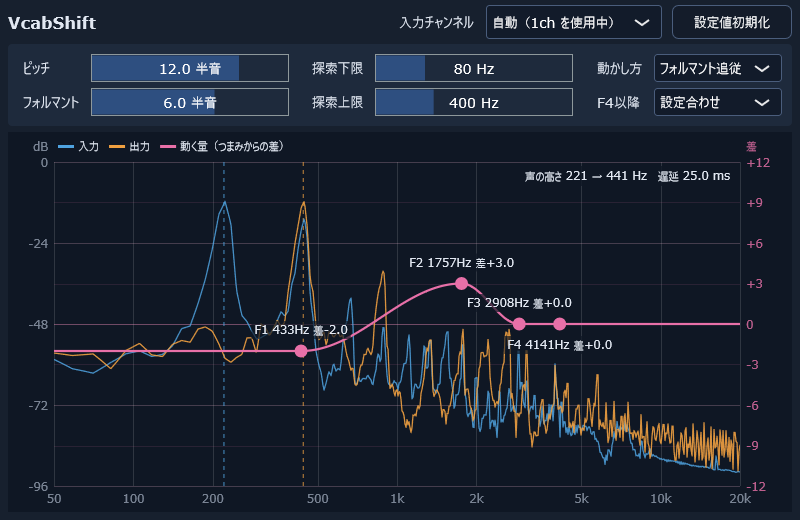
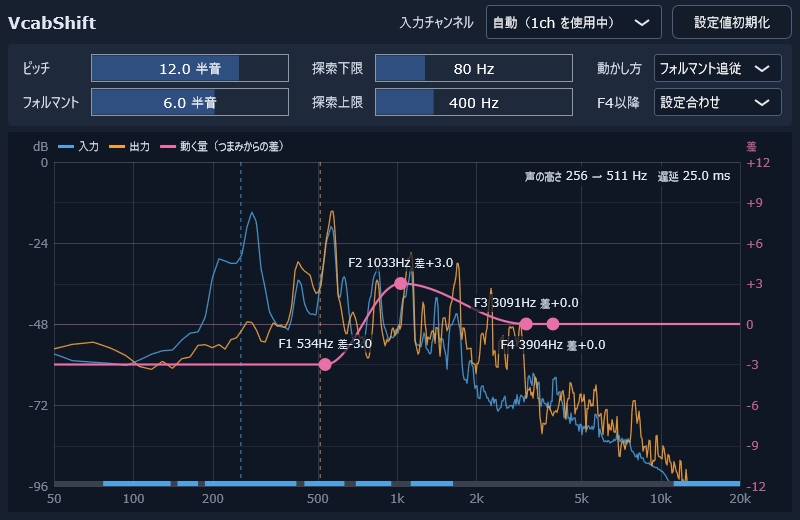
1.0.2

Changed region(s): [[0.0625, 0.3692, 0.9375, 0.9538], [0.75, 0.3077, 0.7812, 0.3385]]

diff --git a/Source/Core/Dsp/PitchDetector.cpp b/Source/Core/Dsp/PitchDetector.cpp
@@ -12,7 +12,9 @@ namespace
 constexpr float kSilentRms = 0.001f;   // -60dBFS より小さい窓は無声とする
 constexpr float kThreshold = 0.15f;    // この値を最初に下回る谷を選ぶ
 constexpr float kVoicedLimit = 0.25f;  // 選んだ谷がこれより深ければ有声
+constexpr float kUnvoicedLimit = 0.35f; // 有声が続いていて高さも近いときは、選んだ谷がこれより浅くなるまで無声にしない
 constexpr float kJumpSemitones = 5.0f; // 前のフレームからこれ以上跳んだら、間違いを疑う
+constexpr int kMaxCorrections = 4;     // 飛び止めで続けて直せるフレームの数（これを超えたら本当に変わったとみなす）
 } // namespace
 
 void PitchDetector::prepare (float sampleRate, float lowestMin)
@@ -99,15 +101,25 @@ PitchResult PitchDetector::analyze (const float* x)
     }
 
     PitchResult r;
-    if (best >= 0 && cmnd[static_cast<size_t> (best)] < kVoicedLimit)
+    if (best >= 0)
     {
-        r.voiced = true;
-        r.f0 = fs / refineTau (best);
+        const float depth = cmnd[static_cast<size_t> (best)];
+        const float f = fs / refineTau (best);
+        // ヒステリシス: 有声が続いていて高さも近ければ、kUnvoicedLimit まで有声のままにする（浅い谷で別の高さへ跳ばないように）
+        const bool continues = lastF0 > 0.0f && depth < kUnvoicedLimit && std::abs (12.0f * std::log2 (f / lastF0)) < kJumpSemitones;
+        if (depth < kVoicedLimit || continues)
+        {
+            r.voiced = true;
+            r.f0 = f;
+        }
     }
 
     // 飛び止め: 有声が続いている途中で大きく跳んだら、前の高さから ±kJumpSemitones の範囲で一番深い谷を探す。
-    // 有声とみなせる深さならそちらに直し、なければ本当に変わったとみなす（間違った高さに張り付かないように）
-    if (r.voiced && lastF0 > 0.0f && std::abs (12.0f * std::log2 (r.f0 / lastF0)) >= kJumpSemitones)
+    // 有声とみなせる深さならそちらに直し、なければ本当に変わったとみなす（間違った高さに張り付かないように）。
+    // 周期 T の声には 2T にも同じくらい深い谷があるので、短い周期へ跳ぶときは、前の高さの谷のほうが深いときだけ直す。
+    // 続けて直すのは kMaxCorrections フレームまで
+    bool corrected = false;
+    if (r.voiced && lastF0 > 0.0f && corrections < kMaxCorrections && std::abs (12.0f * std::log2 (r.f0 / lastF0)) >= kJumpSemitones)
     {
         const float range = std::exp2 (kJumpSemitones / 12.0f);
         const int lo = std::max (tauMin, static_cast<int> (std::ceil (fs / lastF0 / range)));
@@ -120,9 +132,14 @@ PitchResult PitchDetector::analyze (const float* x)
             if (localMin && (near < 0 || c < cmnd[static_cast<size_t> (near)]))
                 near = tau;
         }
-        if (near >= 0 && cmnd[static_cast<size_t> (near)] < kVoicedLimit)
+        if (near >= 0 && cmnd[static_cast<size_t> (near)] < kVoicedLimit
+            && (near <= best || cmnd[static_cast<size_t> (near)] < cmnd[static_cast<size_t> (best)]))
+        {
             r.f0 = fs / refineTau (near);
+            corrected = true;
+        }
     }
+    corrections = corrected ? corrections + 1 : 0;
     lastF0 = r.voiced ? r.f0 : 0.0f;
     return r;
 }

diff --git a/Source/Plugin/SpectrumView.cpp b/Source/Plugin/SpectrumView.cpp
@@ -36,7 +36,8 @@ SpectrumView::SpectrumView (VcabShiftProcessor& p) : proc (p)
     setTooltip (utf8 ("青: 入力、橙: 出力のスペクトル（左の目盛り）。\n"
                       "桃の線: 周波数ごとに、フォルマントのつまみからさらに動かす量（右の目盛り。0 はつまみのとおり）。\n"
                       "F1〜F4 の点を上下にドラッグ（左右は声に合わせて動きます）。動かし方が「帯域固定」のときは、上下左右にドラッグ。\n"
-                      "ホイールで 0.5 半音ずつ。ダブルクリックで 0 に戻します。"));
+                      "ホイールで 0.5 半音ずつ。ダブルクリックで 0 に戻します。\n"
+                      "下端の帯: 直近 3 秒の有声（青）と無声（灰）。右端が今で、左へ流れます（周波数の目盛りとは関係ありません）。"));
     updateWarp();
     startTimerHz (30);
 }
@@ -321,6 +322,32 @@ void SpectrumView::paint (juce::Graphics& g)
         }
                 g.setColour (kWarpColour);
         g.strokePath (path, juce::PathStrokeType (2.2f));
+    }
+
+    // 有声・無声の履歴（下端の帯。右端が今。スペクトルの線に隠れないよう、線より手前に描く）
+    {
+        constexpr int kFrames = 600; // 5ms ごとに 3 秒
+        const auto strip = a.withTop (a.getBottom() - 5.0f);
+        g.setColour (kUnvoicedColour);
+        g.fillRect (strip);
+        g.setColour (kInputColour);
+        const auto& st = proc.status();
+        const int64_t count = st.voicingCount.load();
+        const float frameWidth = strip.getWidth() / kFrames;
+        const int frames = static_cast<int> (std::min<int64_t> (kFrames, count));
+        auto voicedAt = [&] (int i) { return st.voicing[static_cast<size_t> ((count - 1 - i) % vcab::EngineStatus::kVoicingHistory)].load(); };
+        // 続いている有声を 1 つの四角で描く（フレームごとに描くと、継ぎ目がまだらになる）
+        for (int i = 0; i < frames; ++i)
+        {
+            if (! voicedAt (i))
+                continue;
+            int end = i + 1;
+            while (end < frames && voicedAt (end))
+                ++end;
+            const float x0 = strip.getRight() - frameWidth * static_cast<float> (end);
+            g.fillRect (juce::Rectangle<float> (x0, strip.getY(), frameWidth * static_cast<float> (end - i), strip.getHeight()));
+            i = end;
+        }
     }
     g.restoreState();
 

diff --git a/Source/Core/Dsp/PitchDetector.h b/Source/Core/Dsp/PitchDetector.h
@@ -1,6 +1,6 @@
 // 声の高さの検出（YIN）。
 // 低い標本化周波数に落とした音の、決まった長さの窓を 1 フレームずつ受け取り、そのフレームの値をすぐ返す（先の音は見ない）。
-// 飛び止め: 有声が続いている途中で前のフレームから大きく跳んだら、前の高さに近い谷を選び直す。
+// 飛び止め: 有声が続いている途中で前のフレームから大きく跳んだら、前の高さに近い谷を選び直す（条件は analyze の中）。
 #pragma once
 
 #include <vector>
@@ -34,6 +34,7 @@ private:
     int tauMin = 0, tauMax = 0;
     std::vector<float> diff, cmnd;
     float lastF0 = 0.0f;  // 前のフレームの声の高さ（無声なら 0）
+    int corrections = 0;  // 飛び止めで続けて直したフレームの数
 
     float refineTau (int tau) const;
 };

diff --git a/Source/Plugin/EditorStyle.h b/Source/Plugin/EditorStyle.h
@@ -20,6 +20,7 @@ inline const juce::Colour kDim { 0xff7a8494 };
 inline const juce::Colour kInputColour { 0xff4fa3e0 };  // 入力: 青
 inline const juce::Colour kOutputColour { 0xfff0a040 }; // 出力: 橙
 inline const juce::Colour kWarpColour { 0xffe870a8 };   // フォルマントの動く量: 桃（アイコンの帯も同じ色）
+inline const juce::Colour kUnvoicedColour { 0xff39414f }; // 有声・無声の履歴の、無声の部分: 暗い灰色
 
 inline constexpr float kFont = VCLookAndFeel::kMinFontSize;
 inline constexpr int kMargin = 8;

diff --git a/Source/Core/Engine.h b/Source/Core/Engine.h
@@ -24,6 +24,11 @@ struct EngineStatus
     std::array<std::atomic<float>, 4> formant {};
     std::array<std::atomic<bool>, 4> tracked {};
     std::atomic<int> channel { 0 };
+
+    // 有声・無声の履歴（フレームごと。番号 % kVoicingHistory の位置に書く）。voicingCount はこれまでのフレームの数
+    static constexpr int kVoicingHistory = 1024;
+    std::array<std::atomic<bool>, kVoicingHistory> voicing {};
+    std::atomic<int64_t> voicingCount { 0 };
 };
 
 class Engine

diff --git a/Source/Core/Engine.cpp b/Source/Core/Engine.cpp
@@ -279,7 +279,9 @@ void Engine::analyzeFrame()
         tracker.analyze (scratch.data(), false, anchors, f.fm);
     f.voiced = pitch.voiced;
     f.period = pitch.voiced ? static_cast<float> (fs / pitch.f0) : 0.0f;
+    stat.voicing[static_cast<size_t> (frameCount % EngineStatus::kVoicingHistory)].store (pitch.voiced);
     ++frameCount;
+    stat.voicingCount.store (frameCount);
     stat.f0.store (pitch.voiced ? pitch.f0 : 0.0f);
     for (int k = 0; k < 4; ++k)
     {

diff --git a/README.md b/README.md
@@ -23,7 +23,7 @@
 | F1〜F4 の位置 | 動かし方が「フォルマント追従」（初期値）なら、声から追いかけた F1〜F4（LPC）。「帯域固定」なら、決まった位置（ドラッグで変えられる）。「一律」なら、点は使わず、どの周波数もつまみの分だけ動かす |
 | F4以降 | F4合わせ / 設定合わせ（フォルマントのつまみの分だけ。初期値）/ 地声合わせ（動かさない） |
 | ピッチ検出 | YIN（先の音を見ないので、遅延を増やさない） |
-| 画面 | 入力と出力のスペクトルに、周波数ごとのフォルマントの動く量（つまみからの差）の線を重ねて出す。F1〜F4 の点を、可変の EQ のようにドラッグして動かす |
+| 画面 | 入力と出力のスペクトルに、周波数ごとのフォルマントの動く量（つまみからの差）の線を重ねて出す。F1〜F4 の点を、可変の EQ のようにドラッグして動かす。グラフの下端に、直近 3 秒の有声・無声の判定を帯で出す |
 
 グラフの右の目盛りは、フォルマントのつまみからの差です（0 はつまみのとおり）。F1〜F4 の点は、つまみに対して、その位置をさらに何半音動かすかを表します。
 
